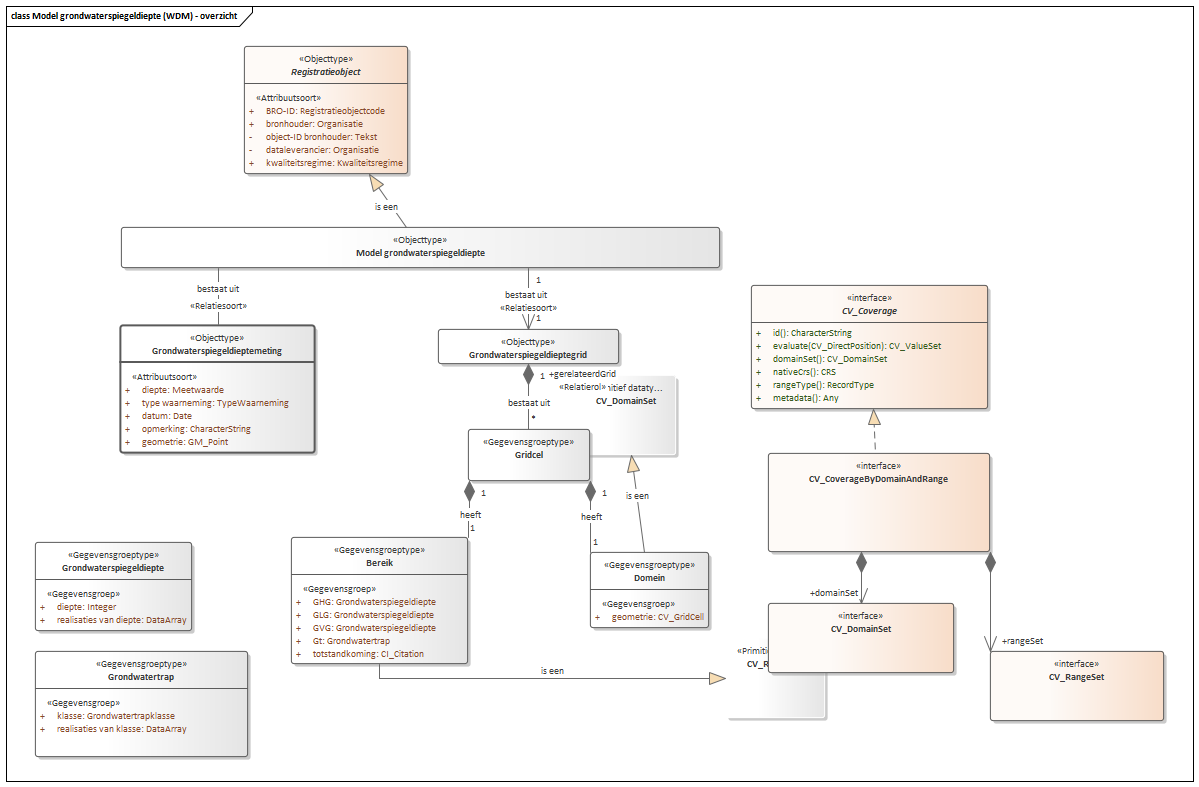
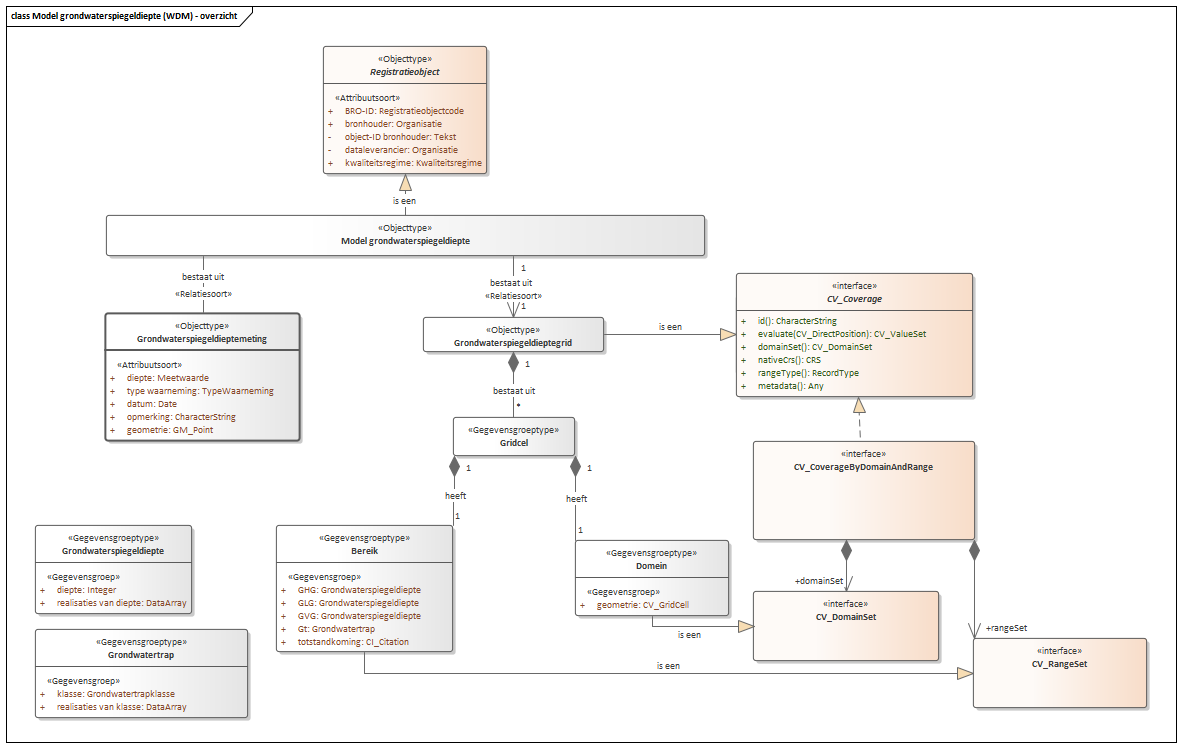
Conceptualmodel-ModelgrondwaterspiegeldiepteWDM-conceptueel-1.0-1-20200721-20201027-123019

diff --git a/data/WDM-cat.msword.html b/data/WDM-cat.msword.html
@@ -15,7 +15,7 @@
    <body>
       <p>Conceptual model/Model grondwaterspiegeldiepte (WDM) - conceptueel/20200721</p>
       <p>Imvertor: 1.61.3</p>
-      <p>Model release: Conceptualmodel-ModelgrondwaterspiegeldiepteWDM-conceptueel-1.0-1-20200721-20201027-122400</p>
+      <p>Model release: Conceptualmodel-ModelgrondwaterspiegeldiepteWDM-conceptueel-1.0-1-20200721-20201027-123019</p>
       <hr>
       <section>
          <h1>Artikel 1 Definitie van registratieobject, entiteiten en attributen</h1>
@@ -50,7 +50,7 @@
          <section>
             <h2>Het domeinmodel</h2>
             <section id="">
-               <div class="imageinfo overview"><img src="Images/EAID_32DF32C8_5066_4b21_A5D5_EE7F2DB49F77.png" usemap="#imagemap-EAID_32DF32C8_5066_4b21_A5D5_EE7F2DB49F77" alt="Diagram "><map name="imagemap-EAID_32DF32C8_5066_4b21_A5D5_EE7F2DB49F77"><area shape="rect" alt="Domein" coords="590,552,709,628" href="#graph_EAID_E3897485_3C5F_43f3_9182_9E6E754D984F"><area shape="rect" alt="Gridcel" coords="468,429,590,481" href="#graph_EAID_D0A6330A_6492_45f1_980C_0E417377CA37"><area shape="rect" alt="Grondwaterspiegeldiepte" coords="35,542,192,631" href="#graph_EAID_F09743D7_6B95_4243_A403_BEC64D04F7FF"><area shape="rect" alt="Grondwaterspiegeldieptegrid" coords="438,329,619,364" href="#graph_EAID_330757FF_F73A_4c69_AFB0_B255971A3DF7"><area shape="rect" alt="Grondwatertrap" coords="35,651,248,757" href="#graph_EAID_58AEC090_D83F_4707_B418_3D9C79CC58CE"><area shape="rect" alt="Bereik" coords="291,537,468,664" href="#graph_EAID_C0D21A75_9A6A_446d_8157_B61183B58A48"><area shape="rect" alt="Grondwaterspiegeldieptemeting" coords="120,325,315,453" href="#graph_EAID_BEAD8A51_C8E2_4fb6_8DF2_52ED4E1FB678"><area shape="rect" alt="Registratieobject" coords="244,46,408,174" href="#graph_EAID_3A7AEE32_4ECA_4822_9009_121A0679605E"><area shape="rect" alt="Model grondwaterspiegeldiepte" coords="121,227,720,268" href="#graph_EAID_FCE5BAFD_33CD_4c9b_878F_04A61B1ED0BE"></map><p><b>Model grondwaterspiegeldiepte (WDM)</b></p>
+               <div class="imageinfo overview"><img src="Images/EAID_32DF32C8_5066_4b21_A5D5_EE7F2DB49F77.png" usemap="#imagemap-EAID_32DF32C8_5066_4b21_A5D5_EE7F2DB49F77" alt="Diagram "><map name="imagemap-EAID_32DF32C8_5066_4b21_A5D5_EE7F2DB49F77"><area shape="rect" alt="Domein" coords="575,540,729,616" href="#graph_EAID_E3897485_3C5F_43f3_9182_9E6E754D984F"><area shape="rect" alt="Gridcel" coords="453,417,575,456" href="#graph_EAID_D0A6330A_6492_45f1_980C_0E417377CA37"><area shape="rect" alt="Grondwaterspiegeldiepte" coords="35,525,192,614" href="#graph_EAID_F09743D7_6B95_4243_A403_BEC64D04F7FF"><area shape="rect" alt="Grondwaterspiegeldieptegrid" coords="423,317,604,352" href="#graph_EAID_330757FF_F73A_4c69_AFB0_B255971A3DF7"><area shape="rect" alt="Grondwatertrap" coords="35,629,248,718" href="#graph_EAID_58AEC090_D83F_4707_B418_3D9C79CC58CE"><area shape="rect" alt="Bereik" coords="276,525,453,652" href="#graph_EAID_C0D21A75_9A6A_446d_8157_B61183B58A48"><area shape="rect" alt="Grondwaterspiegeldieptemeting" coords="105,313,300,441" href="#graph_EAID_BEAD8A51_C8E2_4fb6_8DF2_52ED4E1FB678"><area shape="rect" alt="Registratieobject" coords="323,46,487,174" href="#graph_EAID_3A7AEE32_4ECA_4822_9009_121A0679605E"><area shape="rect" alt="Model grondwaterspiegeldiepte" coords="106,215,705,256" href="#graph_EAID_FCE5BAFD_33CD_4c9b_878F_04A61B1ED0BE"><area shape="rect" alt="CV_Coverage" coords="736,295,836,375" href="#graph_EAID_EDBFC5D1_0314_4d8e_A1FD_91D56A01B776"></map><p><b>Model grondwaterspiegeldiepte (WDM)</b></p>
                </div>
             </section>
          </section>
@@ -392,6 +392,18 @@
                   </table>
                </section><a class="anchor" id="graph_EAID_E3897485_3C5F_43f3_9182_9E6E754D984F"></a><a class="anchor" id="global_class_ModelGrondwaterspiegeldiepteWDM_Domein"></a><section id="global_class_ModelGrondwaterspiegeldiepteWDM_Domein">
                   <h3>   Domein</h3>
+                  <table style="width: 100%;">
+                     <colgroup style="width: 30%;"></colgroup>
+                     <colgroup style="width: 70%;"></colgroup>
+                     <tbody>
+                        <tr>
+                           <th>Type gegeven</th>
+                           <td>Entiteit</td>
+                        </tr>
+                     </tbody>
+                  </table>
+               </section><a class="anchor" id="graph_EAID_EDBFC5D1_0314_4d8e_A1FD_91D56A01B776"></a><a class="anchor" id="global_class_ModelGrondwaterspiegeldiepteWDM_CV_Coverage"></a><section id="global_class_ModelGrondwaterspiegeldiepteWDM_CV_Coverage">
+                  <h3>   CV_Coverage</h3>
                   <table style="width: 100%;">
                      <colgroup style="width: 30%;"></colgroup>
                      <colgroup style="width: 70%;"></colgroup>
